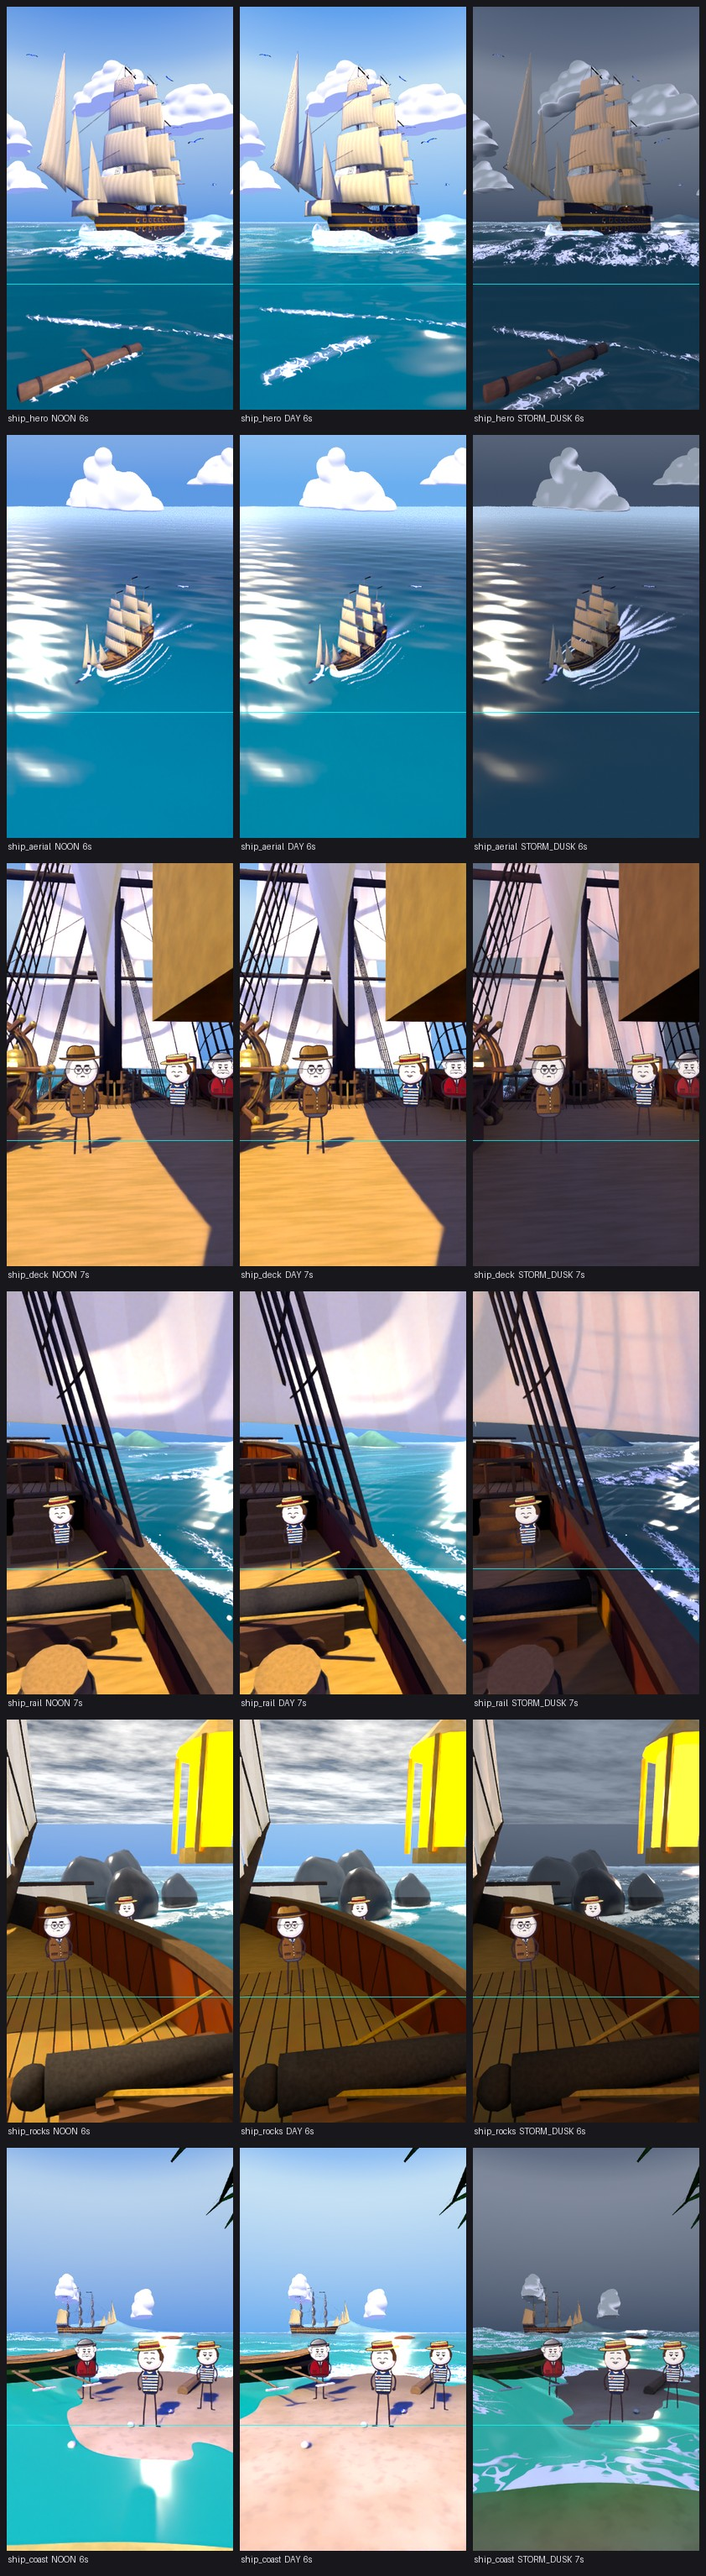
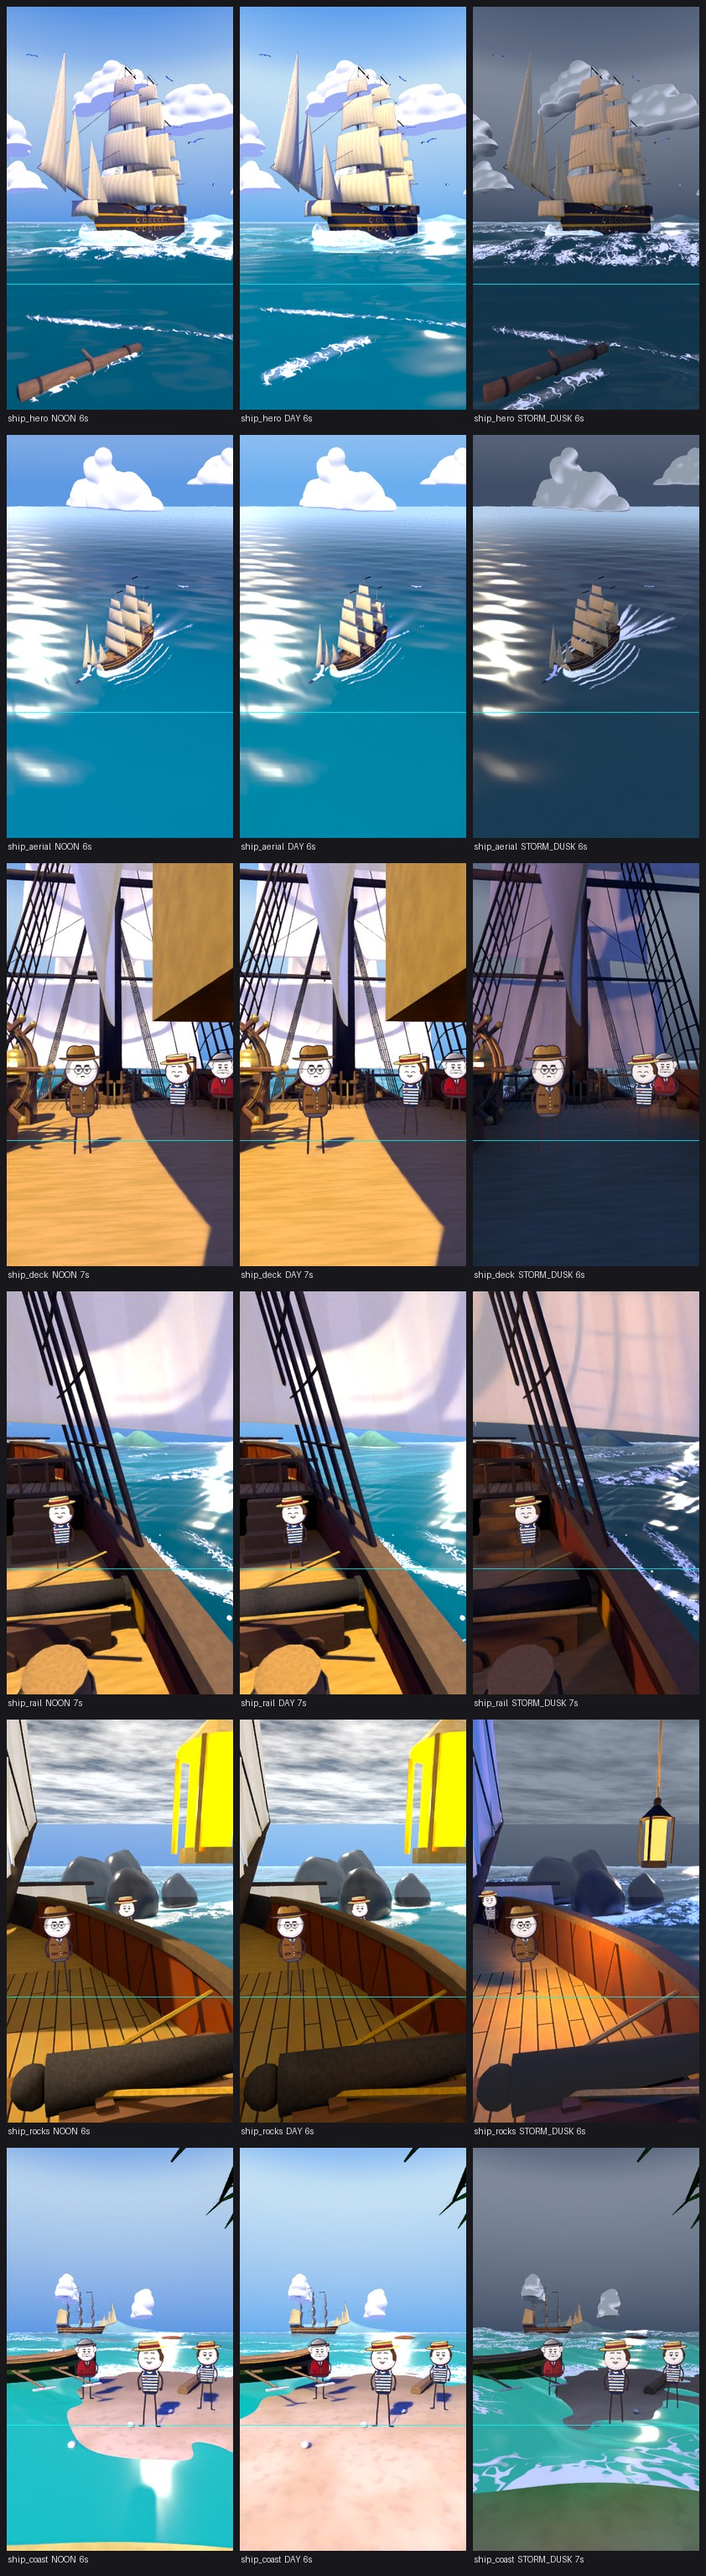
Film 19: director fixes r3 (gear rim, storm sails, rocks lantern)
Claude-Session: https://claude.ai/code/session_017iwyCuVqr4pVQferrZ24jv

Changed region(s): [[0.6485, 0.3096, 1.0, 0.4954], [0.6485, 0.6503, 1.0, 0.836]]

diff --git a/film/v3/set3d19/h19_ship.py b/film/v3/set3d19/h19_ship.py
@@ -110,6 +110,8 @@ def build_ship(SET, preset, light=None):
     LTb = LIGHTS['NOON'] if lname == 'NOON' else LT
     scene = bpy.context.scene
     HU.THEME.clear(); HU.THEME['warm'] = preset in ('ship_deck', 'ship_rail', 'ship_rocks'); HU.THEME['no_stern_lamp'] = preset == 'ship_deck'; HU.THEME['sail_k'] = 0.95 if preset in ('ship_rail', 'ship_deck') else 0.42
+    if lname == 'STORM_DUSK': HU.THEME['sail_k'] = 0.12; HU.THEME['sail_fac'] = 0.4   # director r3: sails must not glow in the storm
+    elif preset == 'ship_rocks': HU.THEME['sail_k'] = 0.95
     S.clear(); S.update(preset=preset, light=lname, coast=coast, P=P, LT=LT)
     K.STATE['samples'] = P.get('samples', 12); K.STATE['dbounce'] = 0
     world = K.new_root('ship_world'); S['world_root'] = world
@@ -151,7 +153,7 @@ def build_ship(SET, preset, light=None):
     if S.get('fglamp') is not None:
         K2200 = (1.0, 0.58, 0.17)                                                            # 2200 K
         K.point_light('lampfg', S['fglamp'], K2200, P.get('lantern_e', 60.0), 0.12).parent = root
-        cb = DK.marks()['captain_bow']; K.point_light('lampfg_pool', (cb[0] + 0.5, cb[1] - 0.5, cb[2] + 1.5), K2200, P.get('pool_e', 90.0), 0.15).parent = root   # warm pool on the deck by the captain
+        cb = DK.marks()['captain_bow']; K.point_light('lampfg_pool', (cb[0] + 0.5, cb[1] - 0.5, cb[2] + 1.5), K2200, P.get('pool_e', 450.0), 0.15).parent = root   # warm pool on the deck by the captain
     # ---- lights on the ship (lanterns) at dusk
     if LT.get('lamp'):
         for i, c in enumerate(lants):

diff --git a/film/v3/set3d19/h19_ship_deck.py b/film/v3/set3d19/h19_ship_deck.py
@@ -45,8 +45,8 @@ def deck_mats():
     M['wheelw'] = mat('wheelw', '#74482a', '#8a5a34', scale=5, aniso=(0.15, 1, 1), rough=0.6, sheen=0.3); M['darkw'] = mat('darkw', '#3e2a1c', '#4c3424', scale=4)
     M['brassw'] = metal_mat('brassw', '#d2a64a', '#ecc366', rough=0.32, spec=0.7, metallic=0.55)
     if HU.THEME.get('warm'): M['caprail'] = mat('caprail_w', '#5a4632', '#6a5238', scale=3); M['carr'] = mat('carr_w', '#5a3e2c', '#6c4a34', scale=4, aniso=(0.2, 1, 1))
-    M['lampfg'] = mat_emit('lampfg', '#ffb060', 0.525)       # amber glass, emission halved (was #ff8a30 x 1.05)
-    M['lantern_iron'] = mat('lantern_iron', '#3a3430', None, rough=0.6)          # warm iron frame
+    M['lampfg'] = mat_emit('lampfg', '#ffb060', 2.2)       # amber glass, emission halved (was #ff8a30 x 1.05)
+    M['lantern_iron'] = mat('lantern_iron', '#2a2420', None, rough=0.7)          # warm iron frame
     M['cannon_iron'] = mat('cannon_iron', '#2a2a2c', None, rough=0.55); HU._mix_self(M['cannon_iron'], '#2a2a2c', 1.0, 0.72)   # neutral iron: the storm's blue ambient must not turn it violet
     return M
 

diff --git a/film/v3/set3d19/h19_kit.py b/film/v3/set3d19/h19_kit.py
@@ -163,7 +163,7 @@ def gear(mb, m, c, r, nt=12, th=0.04, rim=0.03, spokes=4, tooth=0.035, rot=(0, 0
     """gear wheel from boxes: rim ring, teeth, spokes, hub. Built in the XZ plane (axis y); rot orients it. Teeth sit just OUTSIDE the rim (no coplanar faces)"""
     mb.push(Matrix.Translation(c) @ Euler(rot).to_matrix().to_4x4())
     for i in range(n):
-        a = 2 * math.pi * (i + .5) / n; seg = 2 * math.pi * r / n * 1.10
+        a = 2 * math.pi * (i + .5) / n; seg = 2 * (r + rim / 2) * math.tan(math.pi / n) * 1.08   # director r3: size at the OUTER radius so thick rims close
         mb.box(m, (r * math.cos(a), 0, r * math.sin(a)), (seg, th, rim), ry=-(a + math.pi / 2))
     for i in range(nt):
         a = 2 * math.pi * i / nt; rr_ = r + tooth * .45 + rim / 2

diff --git a/film/v3/set3d19/h19_ship_hull.py b/film/v3/set3d19/h19_ship_hull.py
@@ -126,7 +126,7 @@ def ship6_mats():
         M['canv'] = mat('canvw', '#e8dcc0', '#e8dcc0', scale=2.2, aniso=(1.3, 1, 0.8), contrast=0.8, emit='#e8dcc0', emit_k=0.0)     # cream like ship_hero; no translucency (0)
         M['canv2'] = mat('canv2w', '#e2d6b8', '#e2d6b8', scale=2.2, aniso=(1.3, 1, 0.8), contrast=0.8, emit='#e8dcc0', emit_k=0.0)
         M['rig6'] = mat('rig6w', '#2e2620', '#40342a', scale=3); M['iron'] = mat('iron_w', '#4a4038', '#5c5248', scale=6, rough=0.6)
-        for _k in ('canv', 'canv2'): _sail_self_cream(M[_k], THEME.get('sail_k', 0.5))
+        for _k in ('canv', 'canv2'): _sail_self_cream(M[_k], THEME.get('sail_k', 0.5), THEME.get('sail_fac', 0.85))
     M['sail'] = M['canv']; M['sail2'] = M['canv2']
     return M
 def build_hull6(M):
